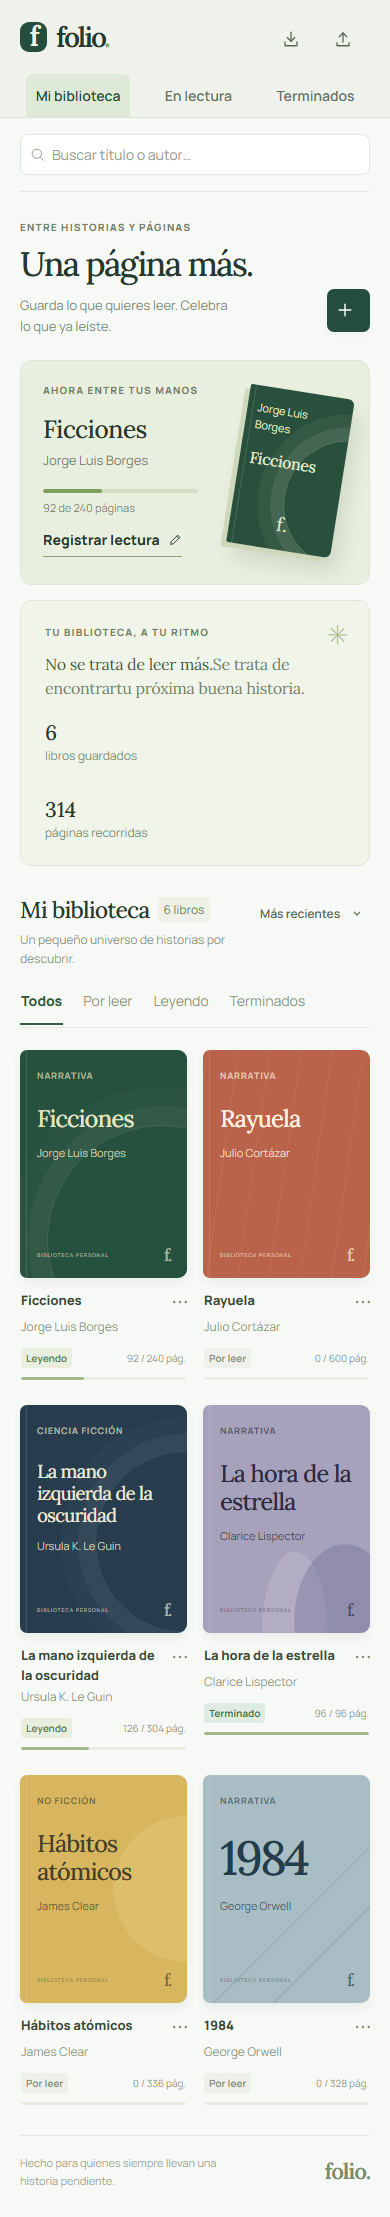
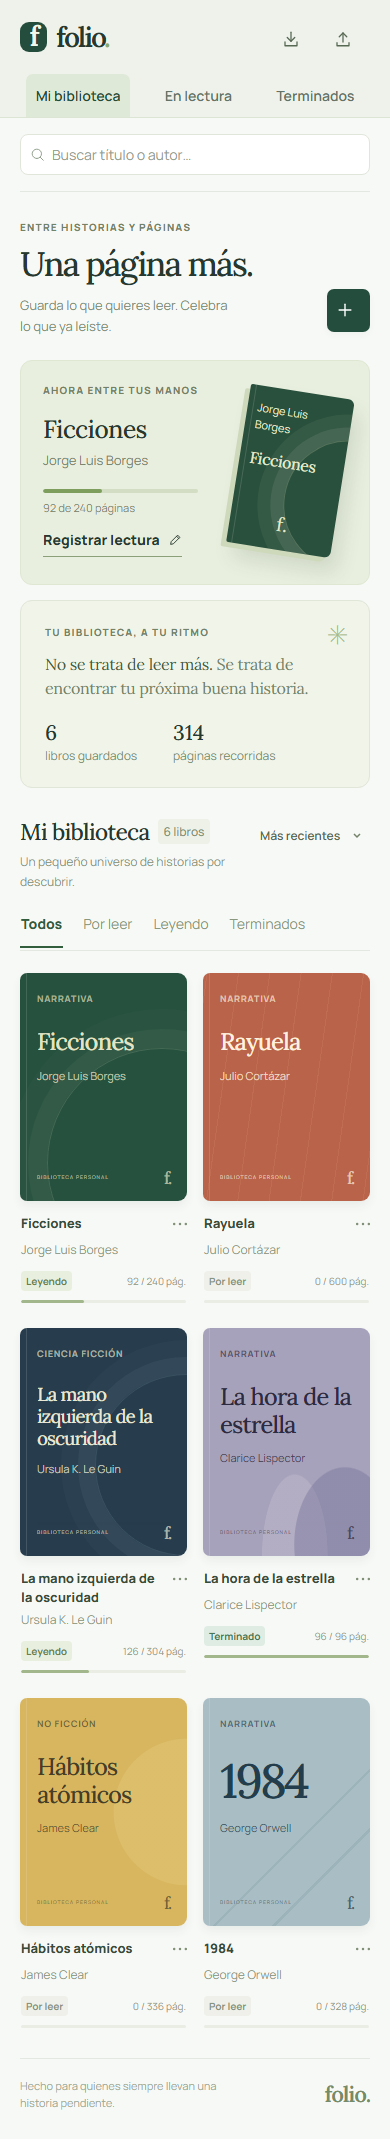
Ajusta la vista movil y actualiza las evidencias

diff --git a/index.html b/index.html
@@ -31,7 +31,7 @@
   <section class="intro" aria-labelledby="page-heading"><div><p class="eyebrow">ENTRE HISTORIAS Y PÁGINAS</p><h1 id="page-heading">Una página más.</h1><p class="intro-copy">Guarda lo que quieres leer. Celebra lo que ya leíste.</p></div><button class="button button-primary" id="add-book"><span data-icon="plus"></span>Añadir libro</button></section>
   <section class="reading-overview" aria-label="Resumen de lectura">
     <div class="current-reading"><div class="current-copy"><p class="eyebrow">AHORA ENTRE TUS MANOS</p><h2 id="current-title">Tu próxima historia te espera</h2><p id="current-author">Elige un libro y empieza a leer.</p><div class="current-progress"><progress id="current-progress" max="100" value="0" aria-label="Progreso del libro actual"></progress><span id="current-progress-text">0 %</span></div><button class="text-button" id="continue-reading">Registrar lectura <span data-icon="pencil"></span></button></div><div id="featured-cover" class="featured-cover" data-palette="fern" aria-hidden="true"><div class="cover-lines"></div><span class="featured-cover-author"></span><strong class="featured-cover-title">Folio</strong><span class="cover-seal">f.</span></div></div>
-    <div class="reading-summary"><span class="summary-star" aria-hidden="true">✳</span><p class="eyebrow">TU BIBLIOTECA, A TU RITMO</p><p class="summary-message">No se trata de leer más.<br><em>Se trata de encontrar<br>tu próxima buena historia.</em></p><div class="summary-stats"><div><strong id="stat-total">0</strong><span>libros guardados</span></div><div><strong id="stat-pages">0</strong><span>páginas recorridas</span></div></div></div>
+    <div class="reading-summary"><span class="summary-star" aria-hidden="true">✳</span><p class="eyebrow">TU BIBLIOTECA, A TU RITMO</p><p class="summary-message">No se trata de leer más. <br><em>Se trata de encontrar <br>tu próxima buena historia.</em></p><div class="summary-stats"><div><strong id="stat-total">0</strong><span>libros guardados</span></div><div><strong id="stat-pages">0</strong><span>páginas recorridas</span></div></div></div>
   </section>
   <section class="library" aria-labelledby="library-heading">
     <div class="library-heading"><div><h2 id="library-heading">Mi biblioteca <span id="library-count">0 libros</span></h2><p id="library-subtitle">Un pequeño universo de historias por descubrir.</p></div><label class="sort-control"><span>Ordenar por</span><select id="sort" aria-label="Ordenar libros"><option value="recent">Más recientes</option><option value="title">Título A–Z</option><option value="progress">Mayor progreso</option></select></label></div>

diff --git a/assets/app.css b/assets/app.css
@@ -24,4 +24,4 @@
 @media(max-width:930px){.summary-stats span{font-size:11px}.summary-message{max-width:270px}.sidebar-profile strong,.sidebar-profile small{font-size:11px}}
 @media(max-width:680px){.breadcrumb{display:none}.search{width:100%;max-width:none}.search input{font-size:14px}.nav-item{font-size:14px}.nav-item [data-icon],.nav-item .nav-count{display:none}.nav-item{padding:12px 10px}.side-nav{justify-content:space-around}.filter-row{gap:19px}.filter span{display:none}.filter{font-size:14px}.intro-copy{font-size:13px}.intro>.button{font-size:0}.current-copy .eyebrow,.reading-summary .eyebrow,.intro .eyebrow{font-size:10px}.current-copy>p:not(.eyebrow){font-size:13px}.current-progress span{font-size:11px}.summary-stats span{font-size:10px}.book-author{font-size:12px}.book-page-count,.status{font-size:10px}.book-title-row h3{font-size:13px}.cover-author{font-size:11px}.cover-category{font-size:9px;letter-spacing:.8px}.sort-control select{font-size:12px}.main-footer{font-size:11px}}
 @media(prefers-reduced-motion:reduce){*,*::before,*::after{transition:none!important;scroll-behavior:auto!important}}
-@media(max-width:680px){.reading-summary{min-height:0;padding:24px}.summary-message{max-width:none;padding-right:0}.summary-message br{display:none}.summary-stats{position:static;margin-top:22px;flex-direction:row;gap:36px}.summary-stats>div{align-items:flex-start}.summary-stats span{font-size:12px;max-width:110px}.featured-cover{padding:14px 10px}.featured-cover-title{font-size:16px;letter-spacing:-.4px}.current-reading{gap:14px}.current-copy .eyebrow{white-space:normal}}
+@media(max-width:680px){.reading-summary{min-height:0;padding:24px}.summary-message{max-width:none;padding-right:0}.summary-message br{display:none}.summary-stats{display:flex;position:static;margin-top:22px;flex-direction:row;gap:36px}.summary-stats>div{align-items:flex-start}.summary-stats span{font-size:12px;max-width:110px}.featured-cover{padding:14px 10px}.featured-cover-title{font-size:16px;letter-spacing:-.4px}.current-reading{gap:14px}.current-copy .eyebrow{white-space:normal}}
